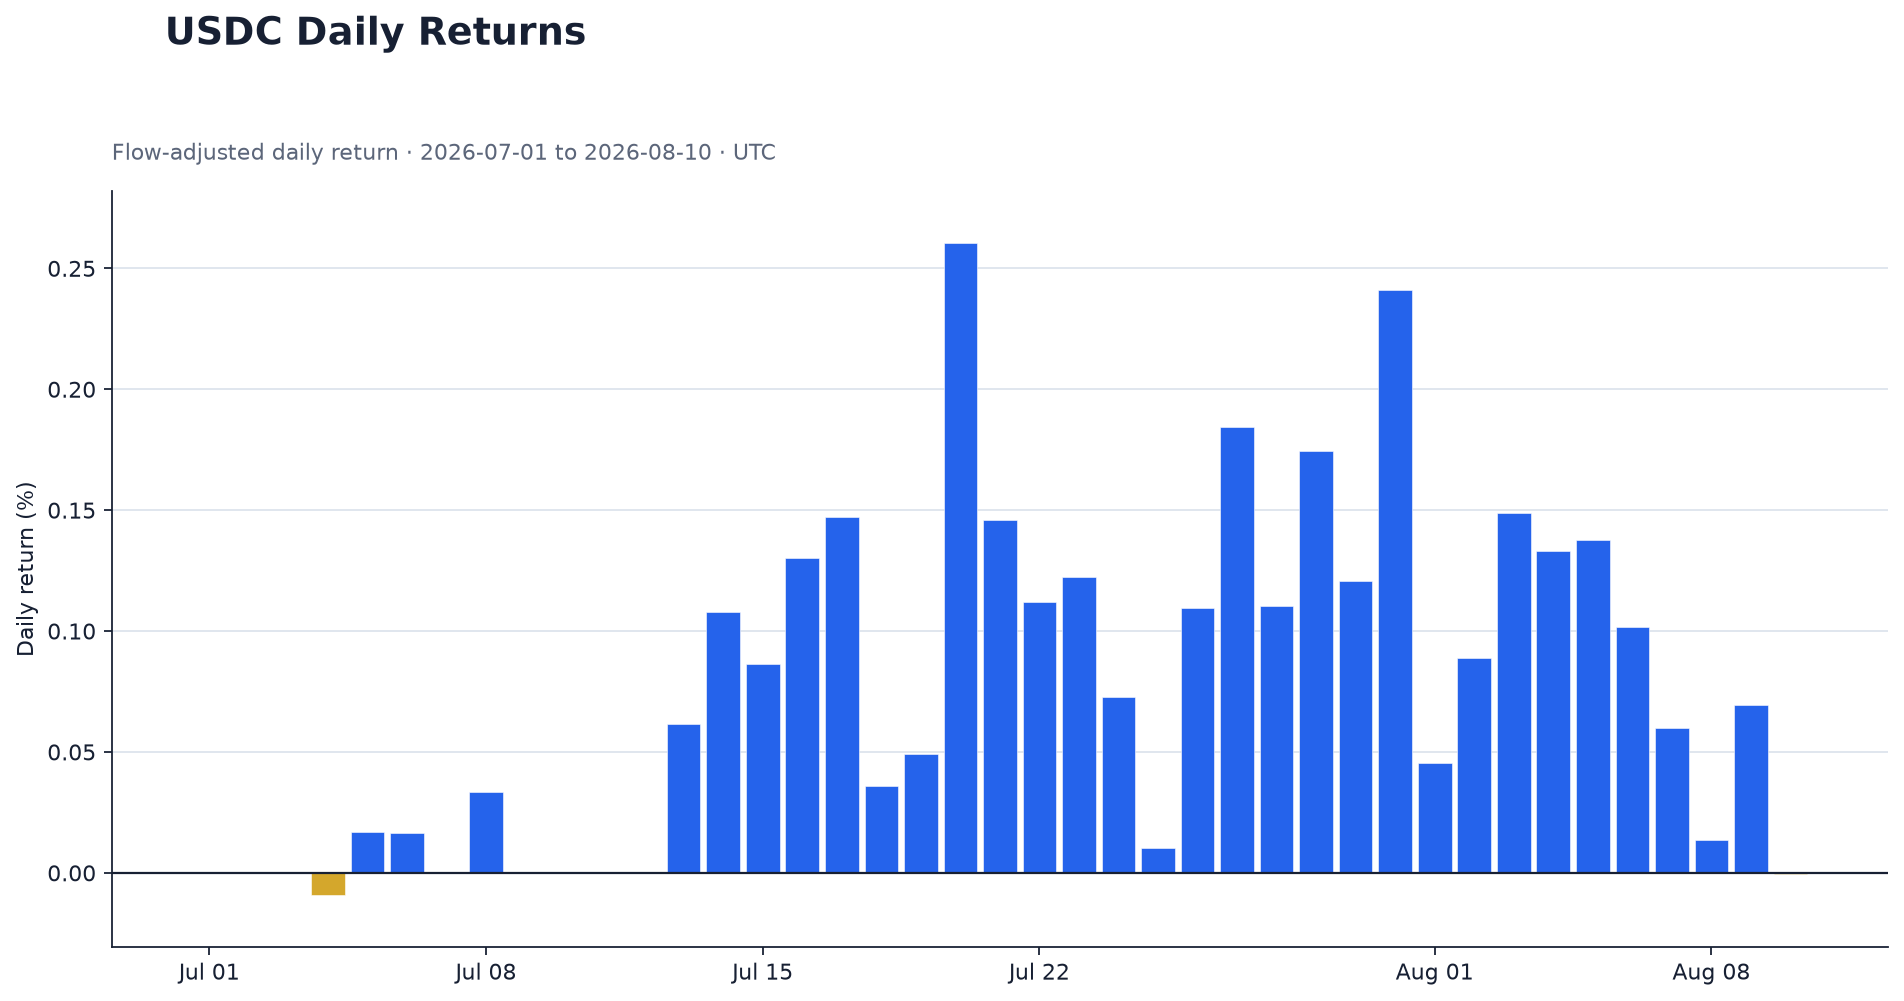
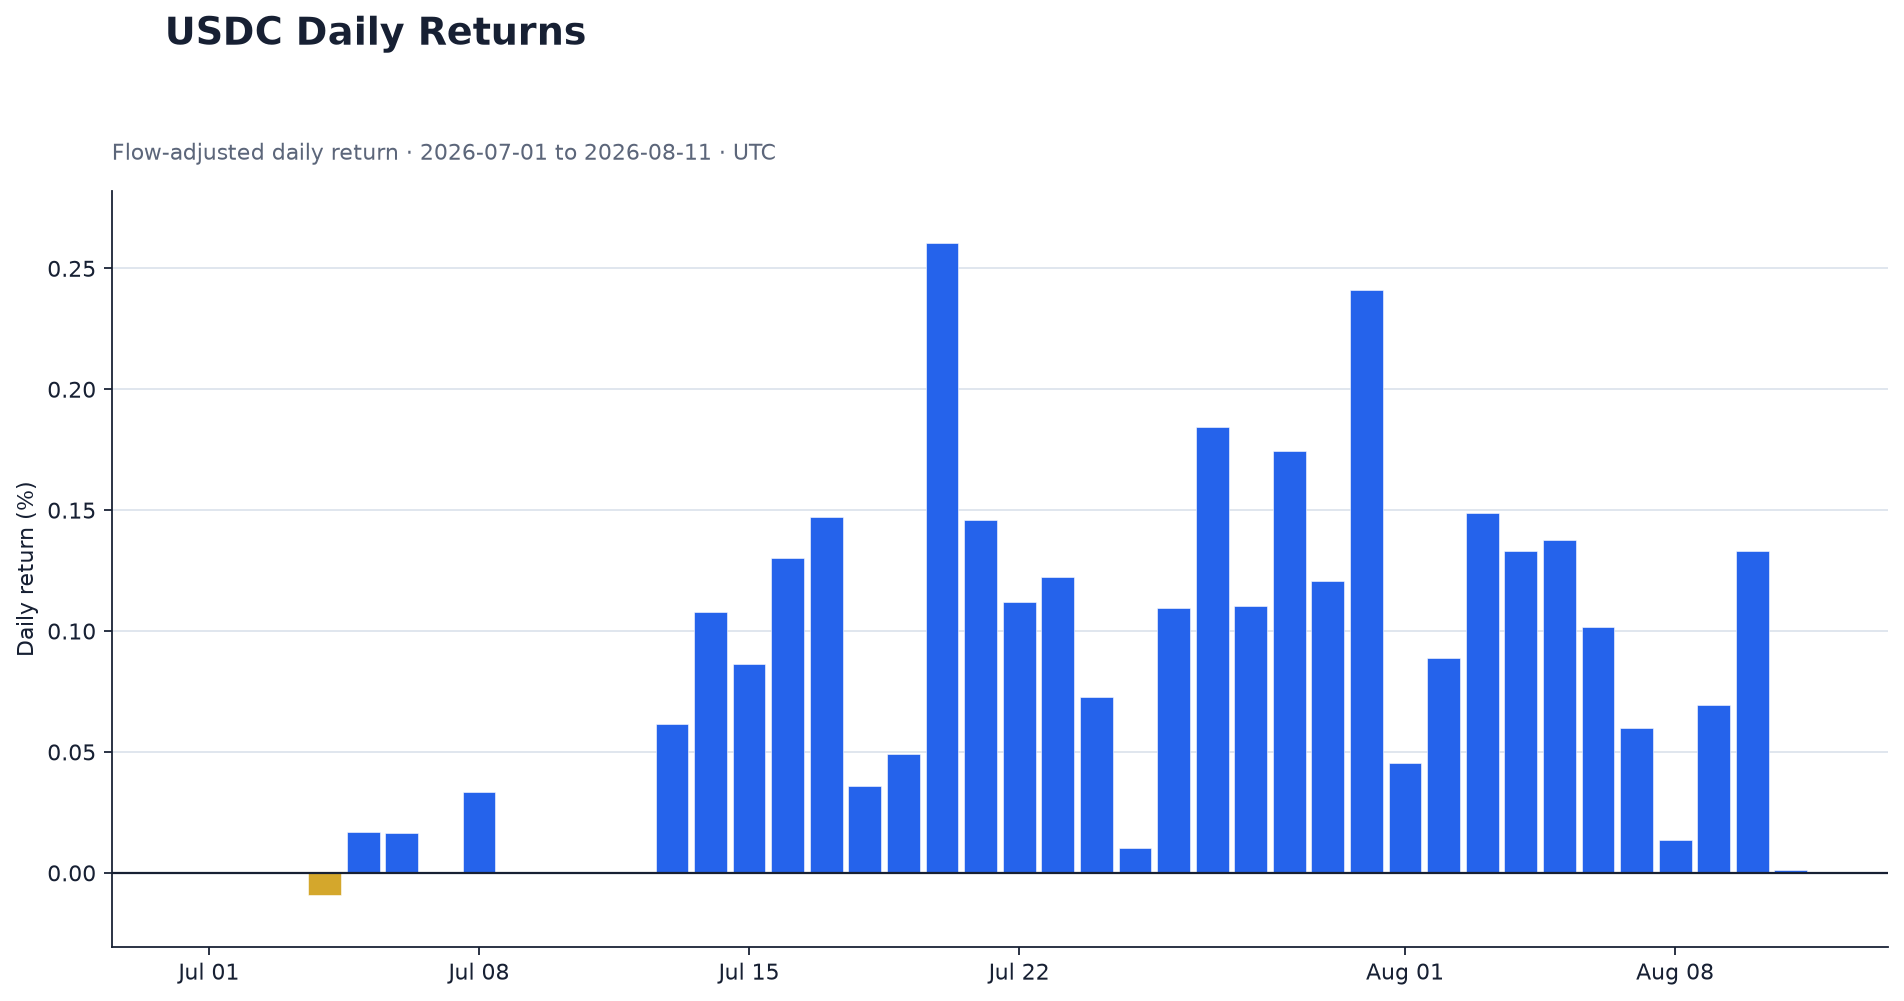
chore: update USDC performance

diff --git a/reports/performance_summary.md b/reports/performance_summary.md
@@ -1,7 +1,7 @@
 # Performance Summary
 
-Generated at: **2026-08-10T00:10:11Z**<br>
-Coverage: **2026-07-01 to 2026-08-10 (UTC)**<br>
+Generated at: **2026-08-11T00:10:08Z**<br>
+Coverage: **2026-07-01 to 2026-08-11 (UTC)**<br>
 Scope: **Daily USDC USD-M Futures realized performance**
 
 Absolute account values are not published. USD-M Futures transfers are excluded from trading return.
@@ -9,23 +9,23 @@ Sharpe and Sortino use private total daily returns including unrealized PnL; unr
 
 | Metric | Value |
 |---|---:|
-| Cumulative Return | 3.18% |
-| Latest Daily Return | -0.00% |
-| Annualized Return | 35.14% |
-| Annualized Volatility | 1.33% |
-| Sharpe Ratio | 5.743508 |
-| Sortino Ratio | 10.193513 |
+| Cumulative Return | 3.32% |
+| Latest Daily Return | 0.00% |
+| Annualized Return | 35.80% |
+| Annualized Volatility | 1.32% |
+| Sharpe Ratio | 5.928025 |
+| Sortino Ratio | 10.519983 |
 | Maximum Drawdown | -0.01% |
-| Calmar Ratio | 3847.393824 |
-| Win Rate | 93.94% |
-| Profit Factor | 1058.840772 |
-| Total Realized Pnl Usdc | 139.644199 |
+| Calmar Ratio | 3919.585466 |
+| Win Rate | 97.06% |
+| Profit Factor | 1348.188726 |
+| Total Realized Pnl Usdc | 145.896999 |
 | Total Commission Usdc | -0.075227 |
-| Total Funding Fee Usdc | 1.772075 |
-| Total Net Pnl Usdc | 141.341046 |
-| Number Of Trading Days | 33 |
-| Number Of Trades | 1000 |
-| Valid Return Days | 38 |
+| Total Funding Fee Usdc | 1.765906 |
+| Total Net Pnl Usdc | 147.587677 |
+| Number Of Trading Days | 34 |
+| Number Of Trades | 1044 |
+| Valid Return Days | 39 |
 | Excluded Return Days | 3 |
 | Annualization Factor | 365 |
 
